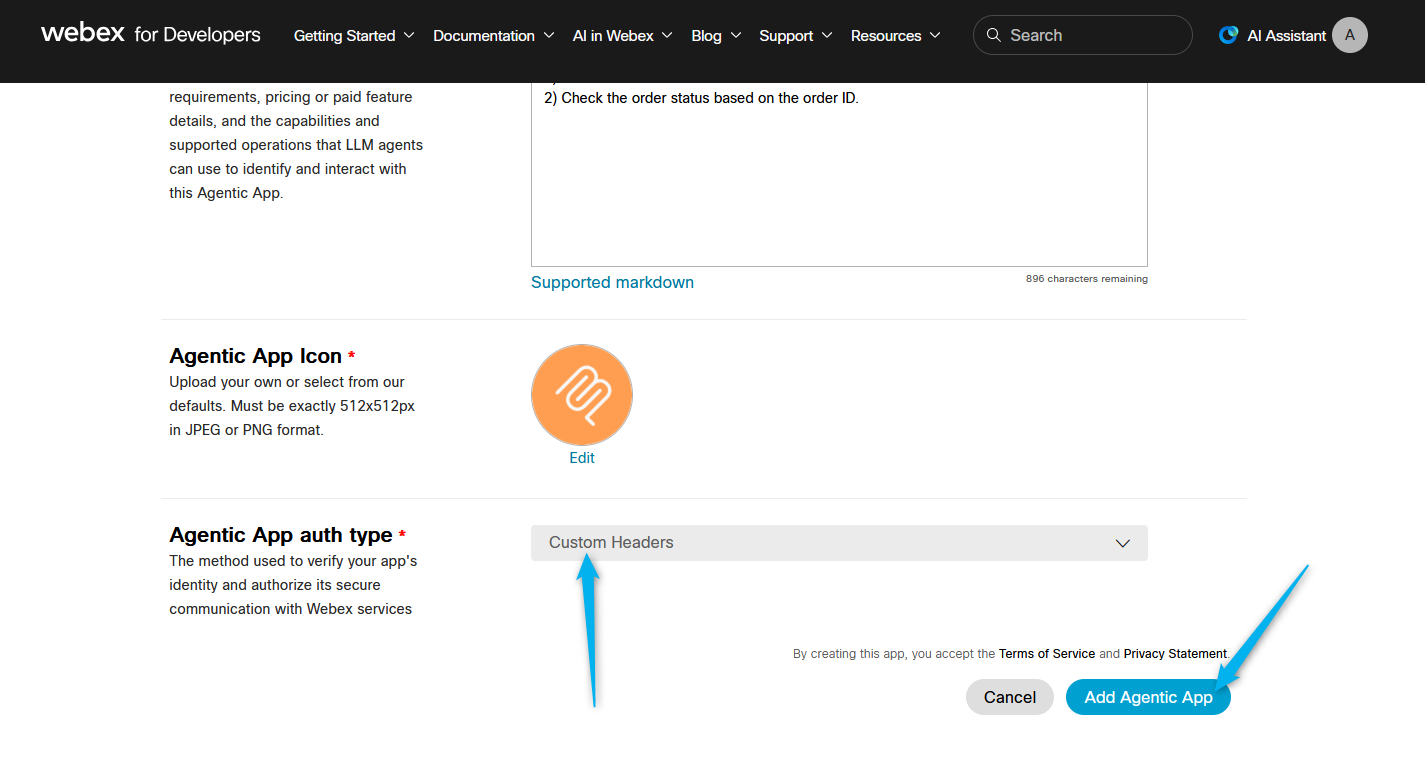
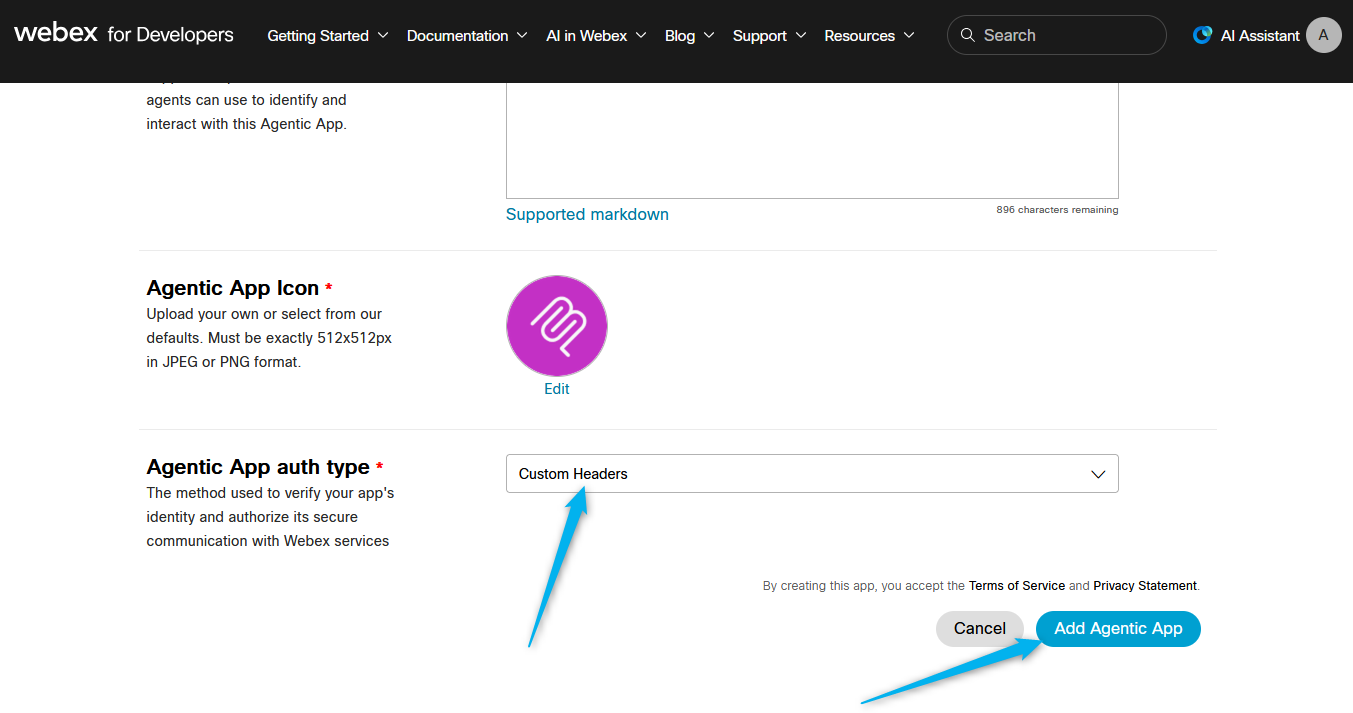
Update Autonomous AI Missions 2 and 3 for preconfigured flows and fulfillment.

diff --git a/docs/stylesheets/extra.css b/docs/stylesheets/extra.css
@@ -13,6 +13,11 @@
     max-width: 1440px;
 }
 
+.md-typeset li img {
+    display: block;
+    clear: both;
+}
+
 :root {
     --md-primary-fg-color: #051C2C;
     --md-accent-fg-color: #00bdeb;

diff --git a/docs/main/AI_Lab_Aut_Voice_Flow_Fulfillment.md b/docs/main/AI_Lab_Aut_Voice_Flow_Fulfillment.md
@@ -83,130 +83,16 @@ In this mission, you will use the Voice flow to execute the API call that create
 12. **Publish** your AI Agent.
    ![Profiles](../graphics/Lab1_AI_Agent/19.33awww.png)
 
-### Task 2. Configure fulfillment logic in the Voice flow.
 
-1. In **Collaboration Control Hub**, go to Flows and open your flow with name **<copy>AutonomousAI_Flow_2000_<w class="attendee"></w></copy>**. Click on **Edit**.
-   ![Profiles](../graphics/Lab1_AI_Agent/19.3.gif)
-
-2. Remove the **DisconnectContact** node.
-   ![Profiles](../graphics/Lab1_AI_Agent/19.4.gif)
-
-3. Create a flow string variable with name **<copy>event_name</copy>** and empty default value.
-   ![Profiles](../graphics/Lab1_AI_Agent/19.5.gif)
-
-4. Create a flow string variable with name **<copy>order_request_details</copy>** and empty default value.
-   ![Profiles](../graphics/Lab1_AI_Agent/19.6.gif)
-
-5. Add a **SetVariable** node.
-   ![Profiles](../graphics/Lab1_AI_Agent/19.7.gif)
-
-6. Click on the **SetVariable** that you just created and configure your **event_name** variable to be assigned with the **VirtualAgentV2....StateEventName** variable. </br>
-   **Note:** *This event name will be the same as your Action name from the AI Agent Studio that is used for the fulfillment.*
-   ![Profiles](../graphics/Lab1_AI_Agent/19.8.gif)
-
-7. Add one more **SetVariable** node and connect them in series.
-   ![Profiles](../graphics/Lab1_AI_Agent/19.9.gif)
-
-8. In the **SetVariable** node click on **Add new** and select Variable as **order_request_details** string variable. To assign the Virtual Agent metadata details to this variable you can either type metadata in the {% raw %}{{}}{% endraw %} and you will see it, or you can click on the **VirtualAgentV2** node, on the right side scroll down until you see the Activity output variable. Copy the name of the variable related to MetaData. Go back to your SetVariable node and configure **order_request_details** with the value of the Metadata that you copied inside of the {% raw %}{{}}{% endraw %}. See the gif below.
-   ![Profiles](../graphics/Lab1_AI_Agent/19.10.gif)
-
-9. Add a **Case** node and connect the **SetVariable** node to the **Case** node.
-   ![Profiles](../graphics/Lab1_AI_Agent/19.11.gif)
-
-10. Add **Disconnect Contact** and assign the **Default** output of the **Case** node to the **Disconnect Contact**.
-   ![Profiles](../graphics/Lab1_AI_Agent/19.12.gif)
-
-11. Click on the **Case** node. Select **event_name** as the Case Variable. Remove the second Link Description. Keep only one Link Description, as for now you have only one action for fulfillment. In the Link Description provide the name of your action: **<copy>Create_New_Order</copy>**.
-   **Note:** *If you add more actions later, the Case node is used as the distribution logic for different fulfillment requests.*
-   ![Profiles](../graphics/Lab1_AI_Agent/19.13.gif)
-
-12. Add an **HTTP Request** node and connect the **Case** output link to the **HTTP Request** node.
-   ![Profiles](../graphics/Lab1_AI_Agent/19.14.gif)
-
-13. Configure the **HTTP Request** with the following:
-
-    - Use authenticated endpoint: **Off**
-    - Request URL: **<copy>https://67e9aa0bbdcaa2b7f5b9ed62.mockapi.io/customerOrder</copy>**
-    - Method: **POST**
-    - Content type: **Application/JSON**
-    - Request body: **<copy>{% raw %}{{order_request_details}}{% endraw %}</copy>**
-       ![Profiles](../graphics/Lab1_AI_Agent/19.15.gif)
-
-14. Connect the **HTTP Request** node to the **VirtualAgentV2** node.
-   ![Profiles](../graphics/Lab1_AI_Agent/19.16.gif)
-
-15. Click on the **VirtualAgentV2** node, open **State Event** and configure the **Event Name** as **<copy>{% raw %}{{event_name}}{% endraw %}</copy>**. In this case, when the interaction returns to the AI agent it stays in the same session and the AI agent continues the conversation accordingly.
-   ![Profiles](../graphics/Lab1_AI_Agent/19.17.gif)
-
-16. Next you need to bring the API call results back to your AI agent. For this, click on the **HTTP Request** node, scroll down on the right side and copy the name of the HTTPRequest...ResponseBody. Then go to the **VirtualAgentV2** node, open the **State Events**, and insert the HTTP body response to the **Event Data** inside of the {% raw %}{{}}{% endraw %}. See the steps on the gif below.
-   ![Profiles](../graphics/Lab1_AI_Agent/19.17_.gif)
-
-17. Enable decryption in the flow so you can monitor your further test call details.
-   ![Profiles](../graphics/Lab1_AI_Agent/19.19.gif)
-
-18. **Validate** and **Publish** the flow with the **Latest** tag.
-   ![Profiles](../graphics/Lab1_AI_Agent/19.18.gif)
-
-19. Place a test call to your test number. Ask to order flowers, and provide the requested information. You should hear that the order was completed successfully. If you have an issue, you can troubleshoot using the flow debugger. First trace the call in the voice flow to make sure the HTTP request was successful. Click on the HTTP Request node, decrypt the results to make sure you got a 201 status result.
-   ![Profiles](../graphics/Lab1_AI_Agent/19.20.gif)
+### Task 2. Test Fulfillment.
 
 
 
-### Task 3. Configure SMS Confirmation.
+1. Place a test call, order flowers, and specify a number for SMS confirmation. Your order should be completed, and you should receive the SMS.
 
-1. Create a new JSON variable with the following:
+    ![Profiles](../graphics/Lab1_AI_Agent/19.33a.png)
 
-    - Name: **<copy>Order_SMS</copy>**
-    - Variable Type: **JSON**
-    - Default Value: **<copy>{}</copy>**
-       ![Profiles](../graphics/Lab1_AI_Agent/19.26.gif)
+2. <span style="color: red;">**[Read Only]**</span> In the voice flow, the fulfillment branch was already preconfigured for this lab. You can review the configuration to understand it by tracing the call in the flow designer. In the flow designer, we use an **HTTP Request** node to send an HTTP request to a third-party application to create an order object. Then we send these results to the caller over SMS, and we send the order details back to the AI Agent in the **State Event**.
 
-2. Delete the link between the **HTTP Request** and **VirtualAgentV2** nodes.
-   ![Profiles](../graphics/Lab1_AI_Agent/19.33.gif)
-
-3. Bring the **SetVariable** node and connect the **HttpRequest** node to this **SetVariable** node.
-   ![Profiles](../graphics/Lab1_AI_Agent/19.33ab.gif)
-
-4. In the **SetVariable** node, configure the **Order_SMS** variable with the outbound body variable from the **HTTP Request** node. Please check the gif below.
-   ![Profiles](../graphics/Lab1_AI_Agent/19.33abck.gif)
-
-5. Bring the **Parse** node and connect the **SetVariable** node to the **Parse** node.
-   ![Profiles](../graphics/Lab1_AI_Agent/19.33abc.gif)
-
-6. Create a new String variable with the following:
-
-    - Name: **<copy>PhoneNumber_SMS</copy>**
-    - Variable Type: **String**
-       ![Profiles](../graphics/Lab1_AI_Agent/19.33abcd.gif)
-
-7. Click on the **Parse** node and configure it with the following:
-
-    - Input variable: **<copy>Order_SMS</copy>**
-    - Variable Type: **JSON**
-    - Output variable: **<copy>PhoneNumber_SMS</copy>**
-    - Path expression: **<copy>$.phoneNumber</copy>**
-       ![Profiles](../graphics/Lab1_AI_Agent/19.33abce.gif)
-
-8. Bring the **Send SMS** node and connect the **Parse** node to the **Send SMS** node.
-   ![Profiles](../graphics/Lab1_AI_Agent/19.33abcf.gif)
-
-9. Click on the **Send SMS** node and configure it with the following:
-
-    - To number: **<copy>{% raw %}{{PhoneNumber_SMS}}{% endraw %}</copy>**
-    - Entry point: **CCBU_SMS**
-    - Message type: **<copy>Text</copy>**
-    - Message content: **<copy>{% raw %}{{Order_SMS}}{% endraw %}</copy>**
-       ![Profiles](../graphics/Lab1_AI_Agent/19.33abcg.gif)
-
-10. Connect the **Send SMS** node to the **VirtualAgentV2** node.
-   ![Profiles](../graphics/Lab1_AI_Agent/19.33abch.gif)
-
-11. **Validate** and **Publish** the flow.
-   ![Profiles](../graphics/Lab1_AI_Agent/19.33abcj.gif)
-
-12. Place a test call, create an order with a number for SMS confirmation, and you should receive the SMS.
-   ![Profiles](../graphics/Lab1_AI_Agent/19.33a.png)
-
-
-
+    ![Profiles](../graphics/Lab1_AI_Agent/19.33b.png)
 <p style="text-align:center"><strong>Congratulations, you have officially completed this mission! 🎉🎉 </strong></p>

diff --git a/docs/main/AI_Lab_Aut_MissionX.md b/docs/main/AI_Lab_Aut_MissionX.md
@@ -13,54 +13,34 @@ Integrate the AI Agent with the Voice Flow.
 
 ### Task 1. Build WxCC voice flow with AI Agent.
 
-1. In [Collaboration Control Hub](https://admin.webex.com){:target="_blank"} under **Contact Center**, navigate to **Flows**, click on **Manage Flows** drop-down list and select **Create Flows**.
+1. In [Collaboration Control Hub](https://admin.webex.com){:target="_blank"}, go to **Contact Center** and navigate to **Flows**.
    ![Profiles](../graphics/Lab1_AI_Agent/2.47.gif)
 
-2. On the next page select **Start from scratch** and click on **Next**.
-   ![Profiles](../graphics/Lab1_AI_Agent/2.48.a.png)
-
-3. Name the new flow **<copy>AutonomousAI_Flow_2000_<w class="attendee"></w></copy>**. Keep the channel as **Voice** and click on **Create Flow**.
+2. On the next page, search for the flow that is related to your ID **<copy>AutonomousAI_Flow_2000_<w class="attendee"></w></copy>**. Open the flow by clicking on it.
    ![Profiles](../graphics/Lab1_AI_Agent/2.48.ab.png)
 
-4. Make sure the **Edit** mode at the top is set to **ON**. Then, drag and drop the **Virtual Agent V2** and **Disconnect Contact** activities from the left panel onto the Design field.
-    ![Profiles](../graphics/Lab1_AI_Agent/2.49.a.gif)
+3. Click on **Edit** to start editing the flow.
+   ![Profiles](../graphics/Lab1_AI_Agent/2.48.ac.png)
 
-5. Connect the nodes and configure **VirtualAgentV2**:
+4. Click on **VirtualAgentV2** node and change the Virtual Agent name to the one that is related to your ID - **<copy><w class="attendee"></w>\_2000_AutoAI_Lab</copy>**.
+   ![Profiles](../graphics/Lab1_AI_Agent/2.48.ad.gif)
 
-    - Connect the **New Phone Contact** output node edge to this **VirtualAgentV2** node.
-    - Connect the **Handled** outputs to **DisconnectContact**.
-    - Click on the **VirtualAgentV2** block and select **Static Contact Center AI Config**.
-    - Select Contact Center AI Config as **Webex AI Agent (Autonomous)**.
-    - Virtual Agent: **<copy><w class="attendee"></w>\_2000_AutoAI_Lab</copy>**
+5. Click on **Queue Contact** node and change the queue name to **<copy><w class="attendee"></w>\_2000_Voice_Queue</copy>**.
+   ![Profiles](../graphics/Lab1_AI_Agent/2.48.adef.gif)
 
-    ![Profiles](../graphics/Lab1_AI_Agent/2.49.gif)
+6. Validate and publish the flow. 
+   ![Profiles](../graphics/Lab1_AI_Agent/2.48.ae.gif)
 
-6. Drag and drop **Queue Contact** and **Play Music** nodes. Configure them as the following:
-
-    - **Queue Contact**
-    - Connect the **Escalated** path from the **Virtual Agent V2** activity to the **Queue Contact** activity.
-    - Connect the **Queue Contact** activity to the **Play Music** activity.
-    - Click on the **Queue Contact** node and select **Static Queue**.
-    - Channel type: **Voice**
-    - Queue: **<copy><w class="attendee"></w>\_2000_Voice_Queue</copy>**
-    - **Play Music**
-    - Create a loop by connecting the Play Music activity back to itself - to create a music loop, following the example provided below.
-    - Click on the **Play Music** node and select Music File: **defaultmusic_on_hold_cisco_opus_no_1.wav**.
-
-    ![Profiles](../graphics/Lab1_AI_Agent/2.50.gif)
-
-7. **Validate** and **Publish** the flow. In the pop-up window, click on the drop-down menu to select **Latest** label (**DO NOT** select any other tag but only **Latest**), then click **Publish**.
-   ![Profiles](../graphics/Lab1_AI_Agent/2.51.gif)
-
-8. Assign the Flow to your **Entry Point**. Do this by first going to **Entry Points**, search for **<copy><w class="attendee"></w>\_2000_Channel</copy>**, and then click on it.
+7. Assign the Flow to your **Entry Point**. Do this by first going to **Entry Point** and search for your channel **<copy><w class="attendee"></w>\_2000_Channel</copy>**.
    ![Profiles](../graphics/Lab1_AI_Agent/2.52.png)
 
-
-9. In the **Entry Point** settings section, change the following and then **Save** the changes.<br/>
+8. Click on **<copy><w class="attendee"></w>\_2000_Channel</copy>**. In the **Entry Point** settings section, change the following and then **Save** the changes.<br/>
     Routing Flow: **<copy>AutonomousAI_Flow_2000_<w class="attendee"></w></copy>**<br/>
     Version Label: **Latest**<br/>
     ![Profiles](../graphics/Lab1_AI_Agent/2.53.gif)
-10. Dial the support number assigned to your **<w class="attendee"></w>\_2000_Channel** to test the Autonomous AI Agent over a voice call.
+
+9. Dial the support number assigned to your **<w class="attendee"></w>\_2000_Channel** to test the Autonomous AI Agent over a voice call. At this stage, the agent will not be able to complete the order because fulfillment is not configured yet. In the next mission, you will configure fulfillment to send an API call to a third-party application to create the order.
    ![Profiles](../graphics/Lab1_AI_Agent/2.84.png)
+
 
 <p style="text-align:center"><strong>Congratulations, you have officially completed this mission! 🎉🎉 </strong></p>

diff --git a/docs/main/AI_Lab_Aut_Mission_MCP.md b/docs/main/AI_Lab_Aut_Mission_MCP.md
@@ -50,7 +50,7 @@ In this mission, you will work on adding this external MCP server to Webex cloud
 5. On the next page, select **Create an Agentic App**.
 ![Profiles](../graphics/Lab1_AI_Agent/15.4.png)
 
-6. For the Agentic App URL enter **<copy>https://y4drgmvgpb.us-east-1.awsapprunner.com/mcp</copy>** and for Agentic App auth type select **Custom Headers**. Finally, click on **Add Agentic App**.
+6. For the Agentic App URL enter **<copy>https://y4drgmvgpb.us-east-1.awsapprunner.com/mcp</copy>**. 
 ![Profiles](../graphics/Lab1_AI_Agent/15.8.png)
 
 7. Name your app as **<copy><w class="attendee"></w>\_MCP_Server_21109</copy>**.
